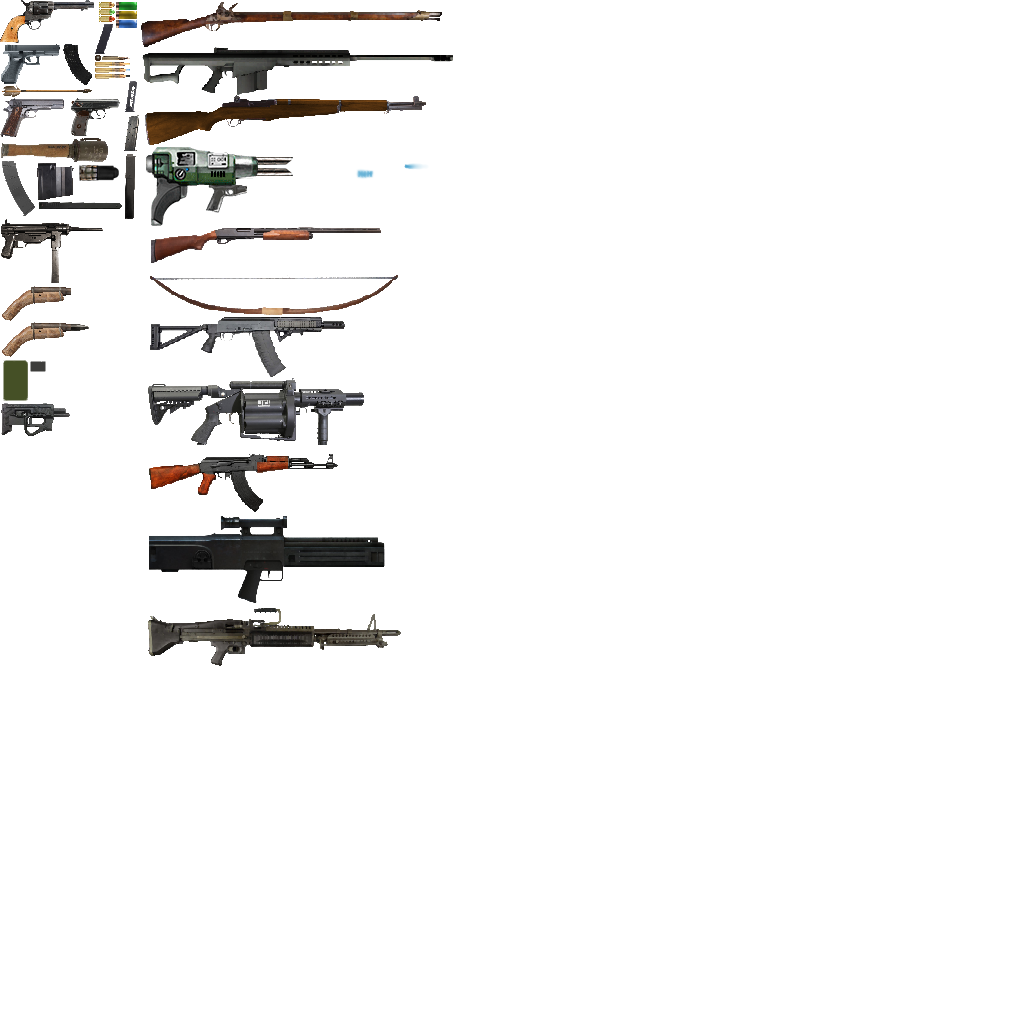
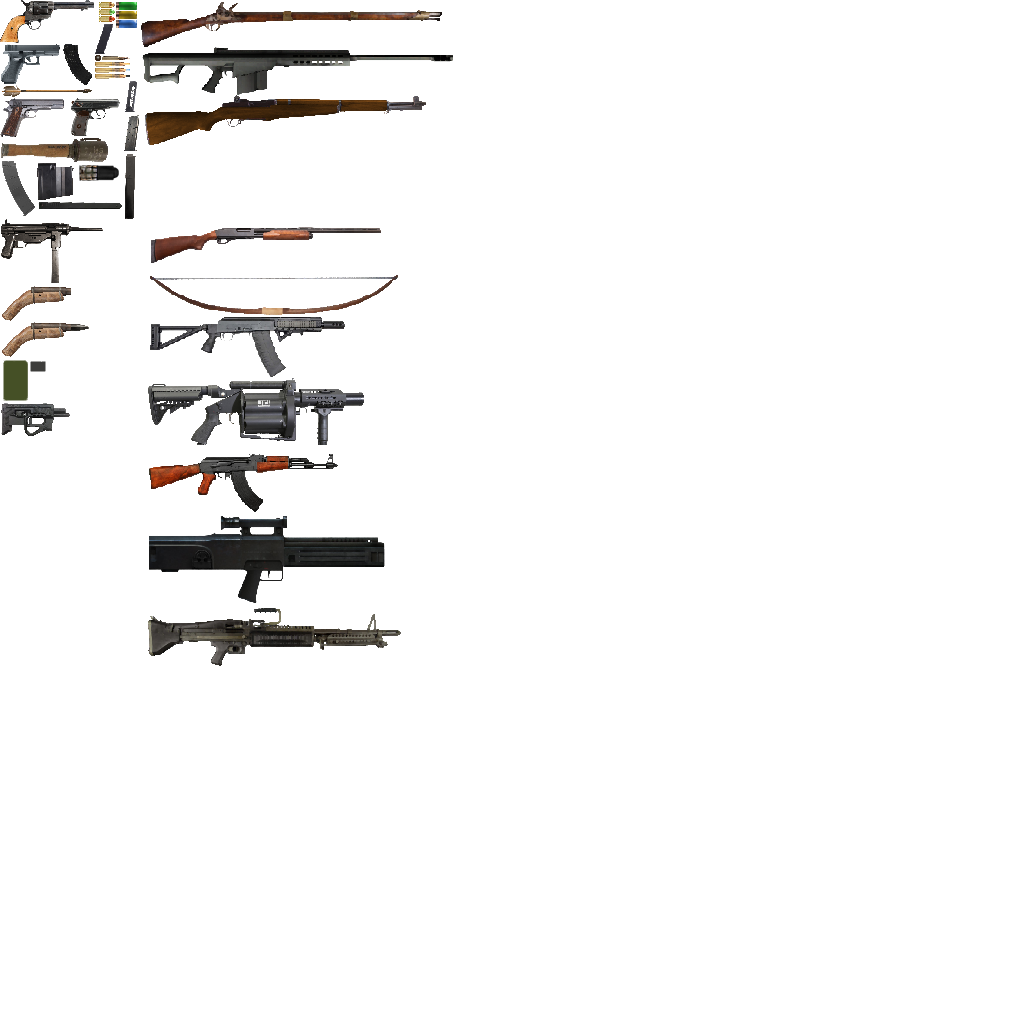
Item changes to multiple mods
Removed Obliterator, Particle Cannon
Moved Timed 40mm Grenade to BE:W

Changed region(s): [[0.125, 0.125, 0.2812, 0.2188], [0.3438, 0.1562, 0.375, 0.1875]]

diff --git a/verisgunmod/readme.md b/verisgunmod/readme.md
@@ -2,8 +2,6 @@
 This is a gun mod designed explicitly for admin abuse servers. It contains, for the most part, real-life weapons with stats that mirror their real counterparts. Additionally, a lot of the weapons in this mod are exceptionally powerful, often able to instantly kill an unarmored player. This is intentional, and the weapons are intended to be used on heavily armored targets, or targets with large health pools.
 
 **Current Additions**
-- Particle Accelerator
-- Obliterator
 - Colt .45 Revolver
 - Glock 17
 - Makarov
@@ -19,4 +17,3 @@ This is a gun mod designed explicitly for admin abuse servers. It contains, for 
 - AK47
 - G11
 - M60
-- 2 secret items
